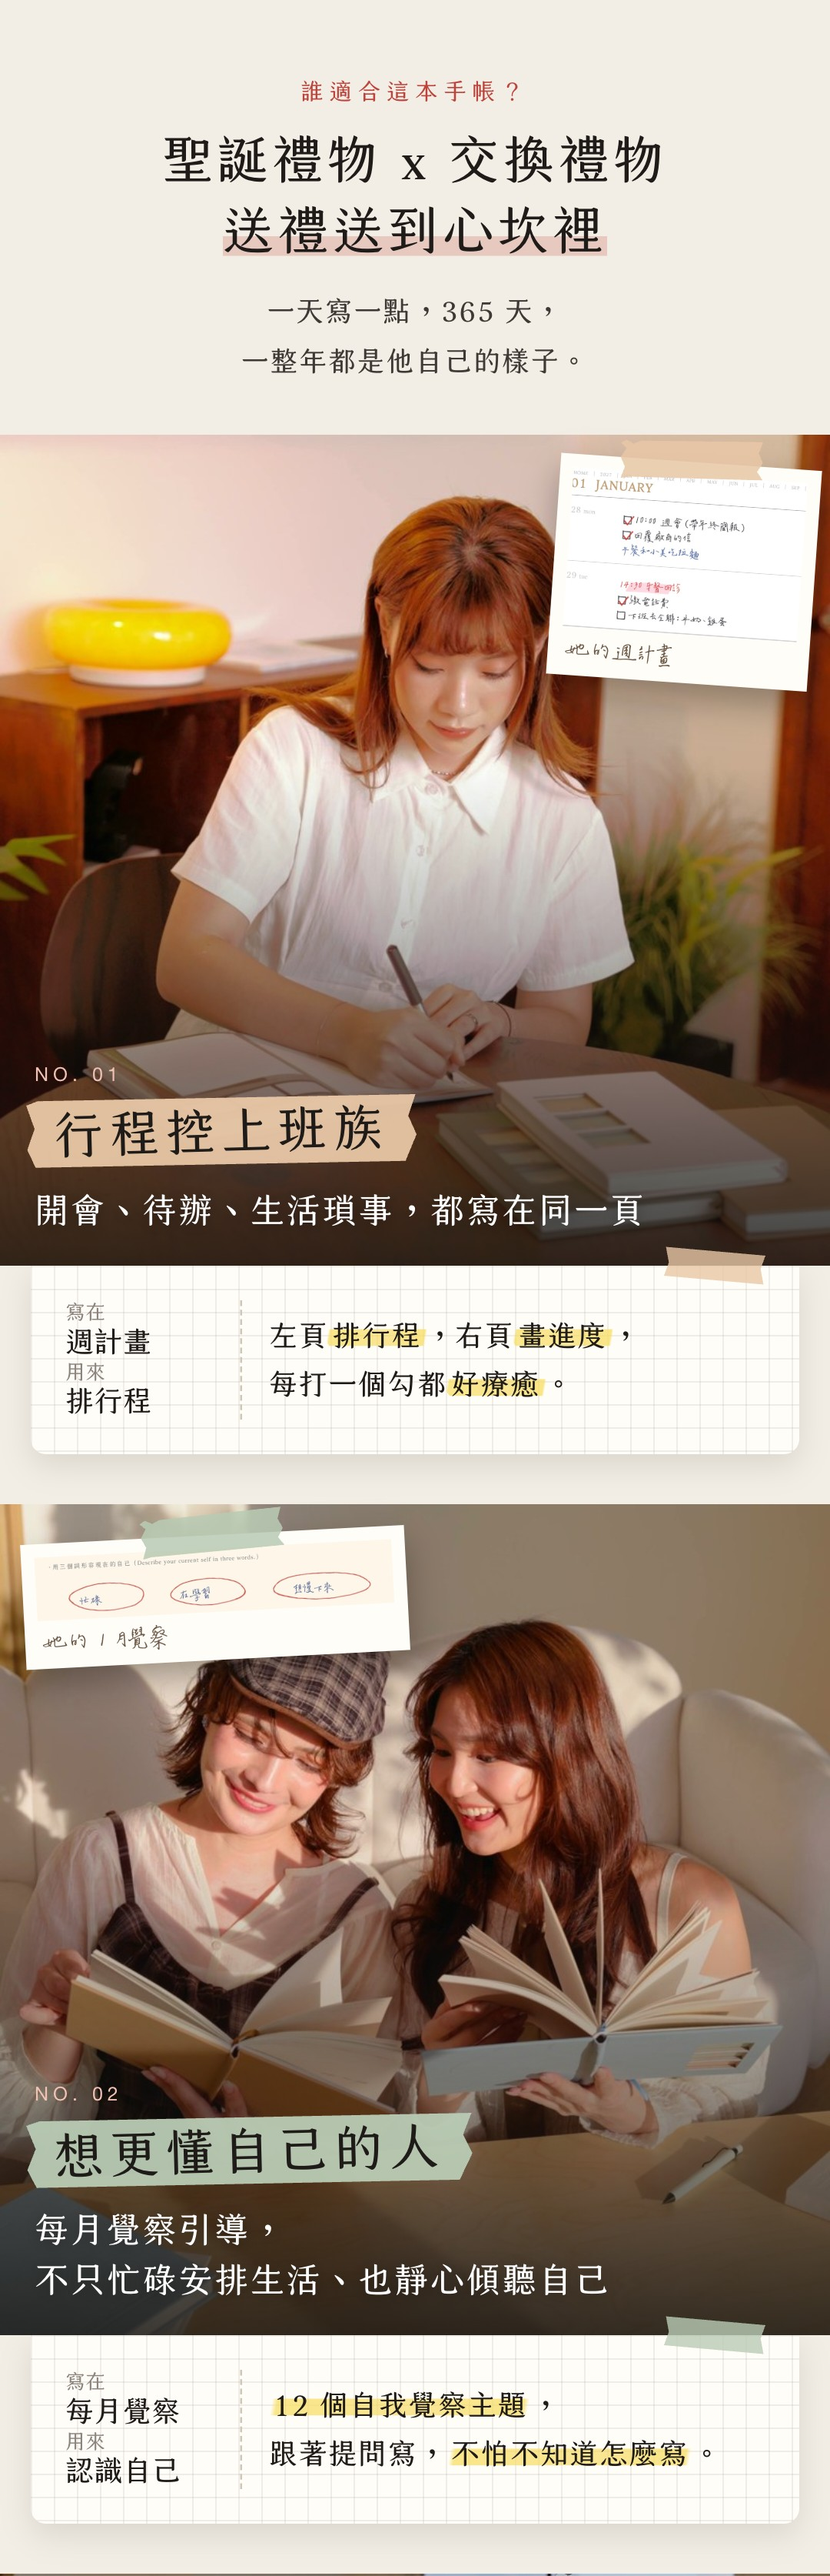
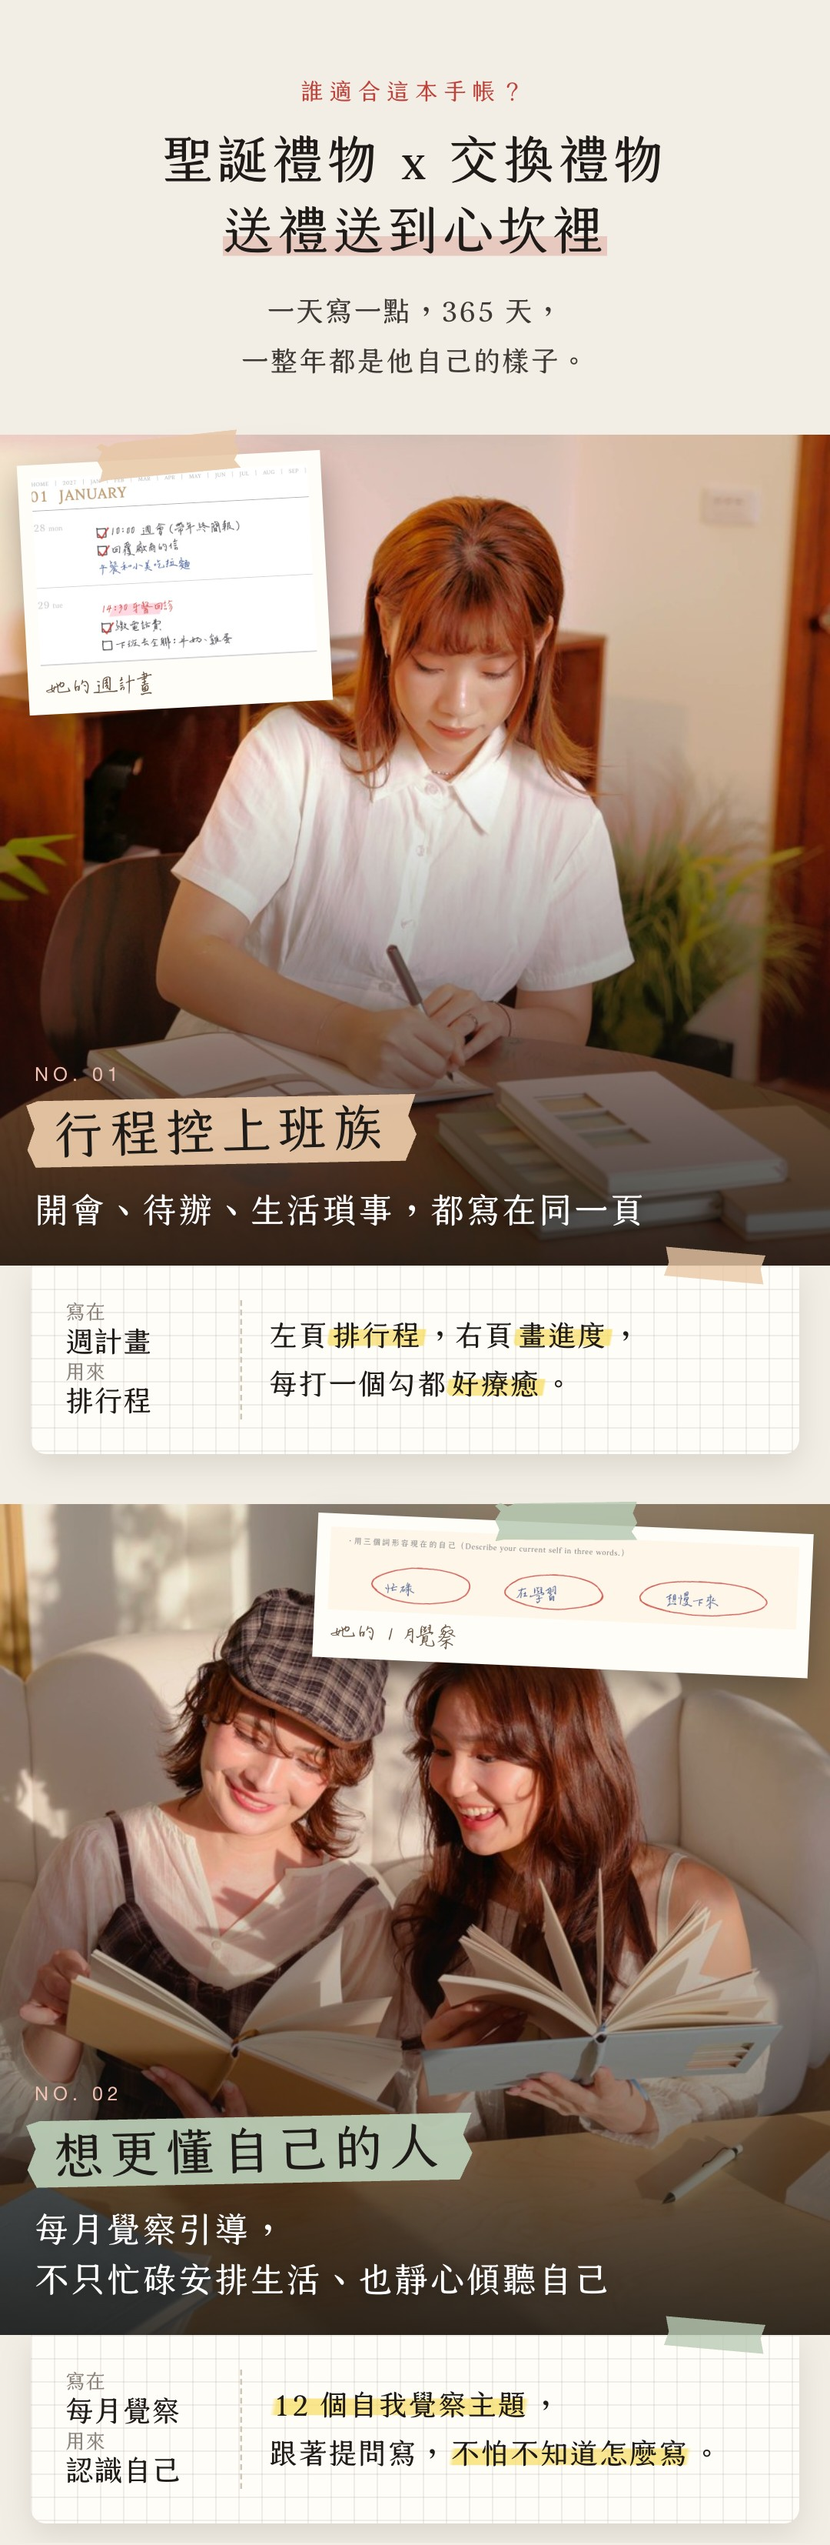
手帳 v11：NO.01 紙條移左、NO.02/03 放大、NO.04 刪紙條

diff --git a/_原始檔/v11/page.html b/_原始檔/v11/page.html
@@ -218,7 +218,7 @@ h2{font-size:27px;line-height:1.38;color:var(--ink);text-align:center;letter-spa
   box-shadow:0 1px 2px rgba(0,0,0,.06)}
 .tape.dot{background-image:radial-gradient(rgba(255,255,255,.75) 1.4px,transparent 1.6px);background-size:7px 7px}
 .gridpaper{background-color:#FFFDF8;background-image:linear-gradient(var(--grid) 1px,transparent 1px),linear-gradient(90deg,var(--grid) 1px,transparent 1px);background-size:12px 12px}
-#s03{padding-bottom:0}#s03a{background:var(--paper2);padding:0 0 26px}
+#s03{padding-bottom:0}#s03a{background:var(--paper2);padding:16px 0 26px}#s03 .cd:last-child{margin-bottom:10px!important}
 #s03 .cd,#s03a .cd{margin-bottom:26px}#s03a .cd:last-child{margin-bottom:0}
 .cd .ov .who{border:0;font-size:26px;color:var(--ink);padding:3px 14px 2px;position:relative;margin:6px 0 2px -4px;transform:rotate(-1.5deg);letter-spacing:.12em}
 .cd .ov .who:before{content:"";position:absolute;inset:0;z-index:-1;background:var(--c,var(--tape));opacity:.95;
@@ -311,12 +311,12 @@ h2{font-size:27px;line-height:1.38;color:var(--ink);text-align:center;letter-spa
   <div class="eyebrow">誰適合這本手帳？</div>
   <h2>聖誕禮物 x 交換禮物<br><span class="mark">送禮送到心坎裡</span></h2>
   <div class="lead">一天寫一點，365 天，<br>一整年都是他自己的樣子。</div>
-  <div class="cd" style="--c:var(--tape)"><div class="ph" style="background-image:url(img/q1.jpg)"><div class="note" style="left:288px;top:14px;width:136px;transform:rotate(4deg)"><span class="tape" style="--c:var(--tape)"></span><img src="img/n_week.jpg"><div class="lb">她的週計畫</div></div><div class="ov"><div class="no en">NO. 01</div><div class="who">行程控上班族</div><h3>開會、待辦、生活瑣事，都寫在同一頁</h3></div></div>
-<div class="tk"><div class="route"><div>寫在<b>週計畫</b></div><div>用來<b>排行程</b></div></div><div><p>左頁<mark>排行程</mark>，右頁<mark>畫進度</mark>，<br>每打一個勾都<mark>好療癒</mark>。</p></div></div></div><div class="cd" style="--c:var(--tape2)"><div class="ph" style="background-image:url(img/q2.jpg)"><div class="note" style="left:12px;top:16px;width:200px;transform:rotate(-3deg)"><span class="tape" style="--c:var(--tape2)"></span><img src="img/n_reflect.jpg"><div class="lb">她的 1 月覺察</div></div><div class="ov"><div class="no en">NO. 02</div><div class="who">想更懂自己的人</div><h3>每月覺察引導，<br>不只忙碌安排生活、也靜心傾聽自己</h3></div></div>
+  <div class="cd" style="--c:var(--tape)"><div class="ph" style="background-image:url(img/q1.jpg)"><div class="note" style="left:12px;top:12px;width:158px;transform:rotate(-3deg)"><span class="tape" style="--c:var(--tape)"></span><img src="img/n_week.jpg"><div class="lb">她的週計畫</div></div><div class="ov"><div class="no en">NO. 01</div><div class="who">行程控上班族</div><h3>開會、待辦、生活瑣事，都寫在同一頁</h3></div></div>
+<div class="tk"><div class="route"><div>寫在<b>週計畫</b></div><div>用來<b>排行程</b></div></div><div><p>左頁<mark>排行程</mark>，右頁<mark>畫進度</mark>，<br>每打一個勾都<mark>好療癒</mark>。</p></div></div></div><div class="cd" style="--c:var(--tape2)"><div class="ph" style="background-image:url(img/q2.jpg)"><div class="note" style="left:164px;top:10px;width:258px;transform:rotate(2.5deg)"><span class="tape" style="--c:var(--tape2)"></span><img src="img/n_reflect.jpg"><div class="lb">她的 1 月覺察</div></div><div class="ov"><div class="no en">NO. 02</div><div class="who">想更懂自己的人</div><h3>每月覺察引導，<br>不只忙碌安排生活、也靜心傾聽自己</h3></div></div>
 <div class="tk"><div class="route"><div>寫在<b>每月覺察</b></div><div>用來<b>認識自己</b></div></div><div><p><mark>12 個自我覺察主題</mark>，<br>跟著提問寫，<mark>不怕不知道怎麼寫</mark>。</p></div></div></div>
 </section>
-<section id="s03a"><div class="cd" style="--c:var(--tape3)"><div class="ph" style="background-image:url(img/q4.jpg)"><div class="note" style="left:226px;top:10px;width:196px;transform:rotate(3deg)"><span class="tape" style="--c:var(--tape3)"></span><img src="img/n_year.jpg"><div class="lb">這次，一路寫到 12 月</div></div><div class="ov"><div class="no en">NO. 03</div><div class="who">每年寫到三月的人</div><h3>年初買了新手帳，翻到四月就是空白</h3></div></div>
-<div class="tk"><div class="route"><div>寫在<b>年計畫</b></div><div>用來<b>寫完一年</b></div></div><div><p>一個跨頁排好 <mark>12 個月</mark>，<br>翻開就知道<mark>自己走到哪了</mark>。</p></div></div></div><div class="cd" style="--c:var(--tape4)"><div class="ph" style="background-image:url(img/q4gift.jpg)"><div class="note" style="left:236px;top:10px;width:180px;transform:rotate(3.5deg)"><span class="tape" style="--c:var(--tape4)"></span><img src="img/n_gift.jpg"><div class="lb">扉頁寫給他</div></div><div class="ov"><div class="no en">NO. 04</div><div class="who">聖誕交換禮物</div><h3>預算一千，想送得精美又有心意</h3></div></div>
+<section id="s03a"><div class="cd" style="--c:var(--tape3)"><div class="ph" style="background-image:url(img/q4.jpg)"><div class="note" style="left:60px;top:4px;width:322px;transform:rotate(-1.5deg)"><span class="tape" style="--c:var(--tape3)"></span><img src="img/n_year.jpg"><div class="lb">這次，一路寫到 12 月</div></div><div class="ov"><div class="no en">NO. 03</div><div class="who">每年寫到三月的人</div><h3>年初買了新手帳，翻到四月就是空白</h3></div></div>
+<div class="tk"><div class="route"><div>寫在<b>年計畫</b></div><div>用來<b>寫完一年</b></div></div><div><p>一個跨頁排好 <mark>12 個月</mark>，<br>翻開就知道<mark>自己走到哪了</mark>。</p></div></div></div><div class="cd" style="--c:var(--tape4)"><div class="ph" style="background-image:url(img/q4gift.jpg)"><div class="ov"><div class="no en">NO. 04</div><div class="who">聖誕交換禮物</div><h3>預算一千，想送得精美又有心意</h3></div></div>
 <div class="tk"><div class="route"><div>附贈<b>皮革手帳袋</b></div><div>送給<b>知心好友</b></div></div><div><p>扉頁寫上<mark>他的名字</mark>，<br>就是<mark>只給他的</mark>一本。</p></div></div></div></section>
 <section id="s03c" class="gift">
   <div class="eyebrow">送禮範例</div>

diff --git a/index.html b/index.html
@@ -1,23 +1,23 @@
-<!doctype html><meta charset="utf-8"><meta name="viewport" content="width=device-width,initial-scale=1"><title>手帳落地頁 v11</title><style>body{margin:0;background:#888}main{max-width:432px;margin:0 auto;background:#fff}img{display:block;width:100%}</style><main><img src="說明圖_1080寬/03_誰適合這本手帳.jpg?v=1127">
-<img src="說明圖_1080寬/03a_受眾卡_每年寫到三月_交換禮物.jpg?v=1127">
-<img src="說明圖_1080寬/03b_聖誕節前到貨_金光_GIF.gif?v=1127">
-<img src="說明圖_1080寬/03c_送禮範例_打開禮盒_GIF.gif?v=1127">
-<img src="說明圖_1080寬/03d_先寫第一頁再送_扉頁手寫_GIF.gif?v=1127">
-<img src="說明圖_1080寬/04_數字列.jpg?v=1127">
-<img src="說明圖_1080寬/04a_寫不下去的三個瞬間.jpg?v=1127">
-<img src="說明圖_1080寬/05_章節01_一週.jpg?v=1127">
-<img src="說明圖_1080寬/05a_週計畫_GIF.gif?v=1127">
-<img src="說明圖_1080寬/05b_方格頁甘特圖_GIF.gif?v=1127">
-<img src="說明圖_1080寬/05c_章節02_一個月.jpg?v=1127">
-<img src="說明圖_1080寬/06_月計畫攤平_GIF.gif?v=1127">
-<img src="說明圖_1080寬/06x_翻開就平攤_GIF.gif?v=1127">
-<img src="說明圖_1080寬/06a_每月覺察_GIF.gif?v=1127">
-<img src="說明圖_1080寬/06b0_章節03_一整年.jpg?v=1127">
-<img src="說明圖_1080寬/06b_年計畫甘特圖_GIF.gif?v=1127">
-<img src="說明圖_1080寬/06c_顯化願景板_GIF.gif?v=1127">
-<img src="說明圖_1080寬/07_開窗封面推照片進去_GIF.gif?v=1127">
-<img src="說明圖_1080寬/08_翻開這一年_GIF.gif?v=1127">
-<img src="說明圖_1080寬/09_手帳人自我檢查表.jpg?v=1127">
-<img src="說明圖_1080寬/10_四種顏色兩種款式_輪播_GIF.gif?v=1127">
-<img src="說明圖_1080寬/11_規格.jpg?v=1127">
-<img src="說明圖_1080寬/12_轉折.jpg?v=1127"></main>
+<!doctype html><meta charset="utf-8"><meta name="viewport" content="width=device-width,initial-scale=1"><title>手帳落地頁 v11</title><style>body{margin:0;background:#888}main{max-width:432px;margin:0 auto;background:#fff}img{display:block;width:100%}</style><main><img src="說明圖_1080寬/03_誰適合這本手帳.jpg?v=1127b">
+<img src="說明圖_1080寬/03a_受眾卡_每年寫到三月_交換禮物.jpg?v=1127b">
+<img src="說明圖_1080寬/03b_聖誕節前到貨_金光_GIF.gif?v=1127b">
+<img src="說明圖_1080寬/03c_送禮範例_打開禮盒_GIF.gif?v=1127b">
+<img src="說明圖_1080寬/03d_先寫第一頁再送_扉頁手寫_GIF.gif?v=1127b">
+<img src="說明圖_1080寬/04_數字列.jpg?v=1127b">
+<img src="說明圖_1080寬/04a_寫不下去的三個瞬間.jpg?v=1127b">
+<img src="說明圖_1080寬/05_章節01_一週.jpg?v=1127b">
+<img src="說明圖_1080寬/05a_週計畫_GIF.gif?v=1127b">
+<img src="說明圖_1080寬/05b_方格頁甘特圖_GIF.gif?v=1127b">
+<img src="說明圖_1080寬/05c_章節02_一個月.jpg?v=1127b">
+<img src="說明圖_1080寬/06_月計畫攤平_GIF.gif?v=1127b">
+<img src="說明圖_1080寬/06x_翻開就平攤_GIF.gif?v=1127b">
+<img src="說明圖_1080寬/06a_每月覺察_GIF.gif?v=1127b">
+<img src="說明圖_1080寬/06b0_章節03_一整年.jpg?v=1127b">
+<img src="說明圖_1080寬/06b_年計畫甘特圖_GIF.gif?v=1127b">
+<img src="說明圖_1080寬/06c_顯化願景板_GIF.gif?v=1127b">
+<img src="說明圖_1080寬/07_開窗封面推照片進去_GIF.gif?v=1127b">
+<img src="說明圖_1080寬/08_翻開這一年_GIF.gif?v=1127b">
+<img src="說明圖_1080寬/09_手帳人自我檢查表.jpg?v=1127b">
+<img src="說明圖_1080寬/10_四種顏色兩種款式_輪播_GIF.gif?v=1127b">
+<img src="說明圖_1080寬/11_規格.jpg?v=1127b">
+<img src="說明圖_1080寬/12_轉折.jpg?v=1127b"></main>

diff --git a/_原始檔/v11/build_v11.py b/_原始檔/v11/build_v11.py
@@ -11,7 +11,7 @@ EXTRA = r'''
   box-shadow:0 1px 2px rgba(0,0,0,.06)}
 .tape.dot{background-image:radial-gradient(rgba(255,255,255,.75) 1.4px,transparent 1.6px);background-size:7px 7px}
 .gridpaper{background-color:#FFFDF8;background-image:linear-gradient(var(--grid) 1px,transparent 1px),linear-gradient(90deg,var(--grid) 1px,transparent 1px);background-size:12px 12px}
-#s03{padding-bottom:0}#s03a{background:var(--paper2);padding:0 0 26px}
+#s03{padding-bottom:0}#s03a{background:var(--paper2);padding:16px 0 26px}#s03 .cd:last-child{margin-bottom:10px!important}
 #s03 .cd,#s03a .cd{margin-bottom:26px}#s03a .cd:last-child{margin-bottom:0}
 .cd .ov .who{border:0;font-size:26px;color:var(--ink);padding:3px 14px 2px;position:relative;margin:6px 0 2px -4px;transform:rotate(-1.5deg);letter-spacing:.12em}
 .cd .ov .who:before{content:"";position:absolute;inset:0;z-index:-1;background:var(--c,var(--tape));opacity:.95;
@@ -106,16 +106,15 @@ def note(src, x, y, w, rot, lb, c='--tape'):
 P = [
  dict(n='01', who='行程控上班族', c='--tape', h='開會、待辦、生活瑣事，都寫在同一頁', k1='寫在', v1='週計畫', k2='用來', v2='排行程',
       p='左頁<mark>排行程</mark>，右頁<mark>畫進度</mark>，<br>每打一個勾都<mark>好療癒</mark>。', img='img/q1.jpg',
-      note=note('img/n_week.jpg', 288, 14, 136, 4, '她的週計畫'),),
+      note=note('img/n_week.jpg', 12, 12, 158, -3, '她的週計畫'),),
  dict(n='02', who='想更懂自己的人', c='--tape2', h='每月覺察引導，<br>不只忙碌安排生活、也靜心傾聽自己', k1='寫在', v1='每月覺察', k2='用來', v2='認識自己',
       p='<mark>12 個自我覺察主題</mark>，<br>跟著提問寫，<mark>不怕不知道怎麼寫</mark>。', img='img/q2.jpg',
-      note=note('img/n_reflect.jpg', 12, 16, 200, -3, '她的 1 月覺察', '--tape2')),
+      note=note('img/n_reflect.jpg', 164, 10, 258, 2.5, '她的 1 月覺察', '--tape2')),
  dict(n='03', who='每年寫到三月的人', c='--tape3', h='年初買了新手帳，翻到四月就是空白', k1='寫在', v1='年計畫', k2='用來', v2='寫完一年',
       p='一個跨頁排好 <mark>12 個月</mark>，<br>翻開就知道<mark>自己走到哪了</mark>。', img='img/q4.jpg',
-      note=note('img/n_year.jpg', 226, 10, 196, 3, '這次，一路寫到 12 月', '--tape3')),
+      note=note('img/n_year.jpg', 60, 4, 322, -1.5, '這次，一路寫到 12 月', '--tape3')),
  dict(n='04', who='聖誕交換禮物', c='--tape4', h='預算一千，想送得精美又有心意', k1='附贈', v1='皮革手帳袋', k2='送給', v2='知心好友',
-      p='扉頁寫上<mark>他的名字</mark>，<br>就是<mark>只給他的</mark>一本。', img='img/q4gift.jpg',
-      note=note('img/n_gift.jpg', 236, 10, 180, 3.5, '扉頁寫給他', '--tape4')),
+      p='扉頁寫上<mark>他的名字</mark>，<br>就是<mark>只給他的</mark>一本。', img='img/q4gift.jpg', note=''),
 ]
 def card(x):
     return f'''<div class="cd" style="--c:var({x["c"]})"><div class="ph" style="background-image:url({x["img"]})">{x["note"]}<div class="ov"><div class="no en">NO. {x["n"]}</div><div class="who">{x["who"]}</div><h3>{x["h"]}</h3></div></div>

diff --git a/README.md b/README.md
@@ -47,3 +47,9 @@
 ## 11/27 修改（阿寧看手機預覽）
 - 受眾卡 1–3（含 NO.04）紙條原則：**不要蓋到臉**。NO.01 紙條移到右上（頭髮右邊的牆）、NO.03 移到右上窗戶、NO.04 移到右上聖誕樹那側；NO.01 週計畫紙條裁窄讓字大一點。
 - 03c 皮革燙金手帳袋放大：改用丁丁 C0136（調色對齊麻豆）2.0 秒 4K 原畫面裁手帳袋（燙金字清楚），整欄寬大圖、說明放下方；取代原本 v10 的 bag.jpg 小縮圖。
+
+## 11/27 第二輪（阿寧）
+- NO.01 紙條移到左上（檯燈那面牆）。
+- NO.02、NO.03 紙條放大：NO.02 改到右上、寬 258；NO.03 橫跨上方、寬 322，年計畫紙條改裁 11–12 月兩列讓字變大。
+- NO.04 刪除紙條（扉頁內容留在 03d 示範）。
+- 03a 上方加 16px 留白，NO.03 紙條的紙膠帶才不會被切掉；03 最後一張卡下方改 10px，接起來的間距不變。
